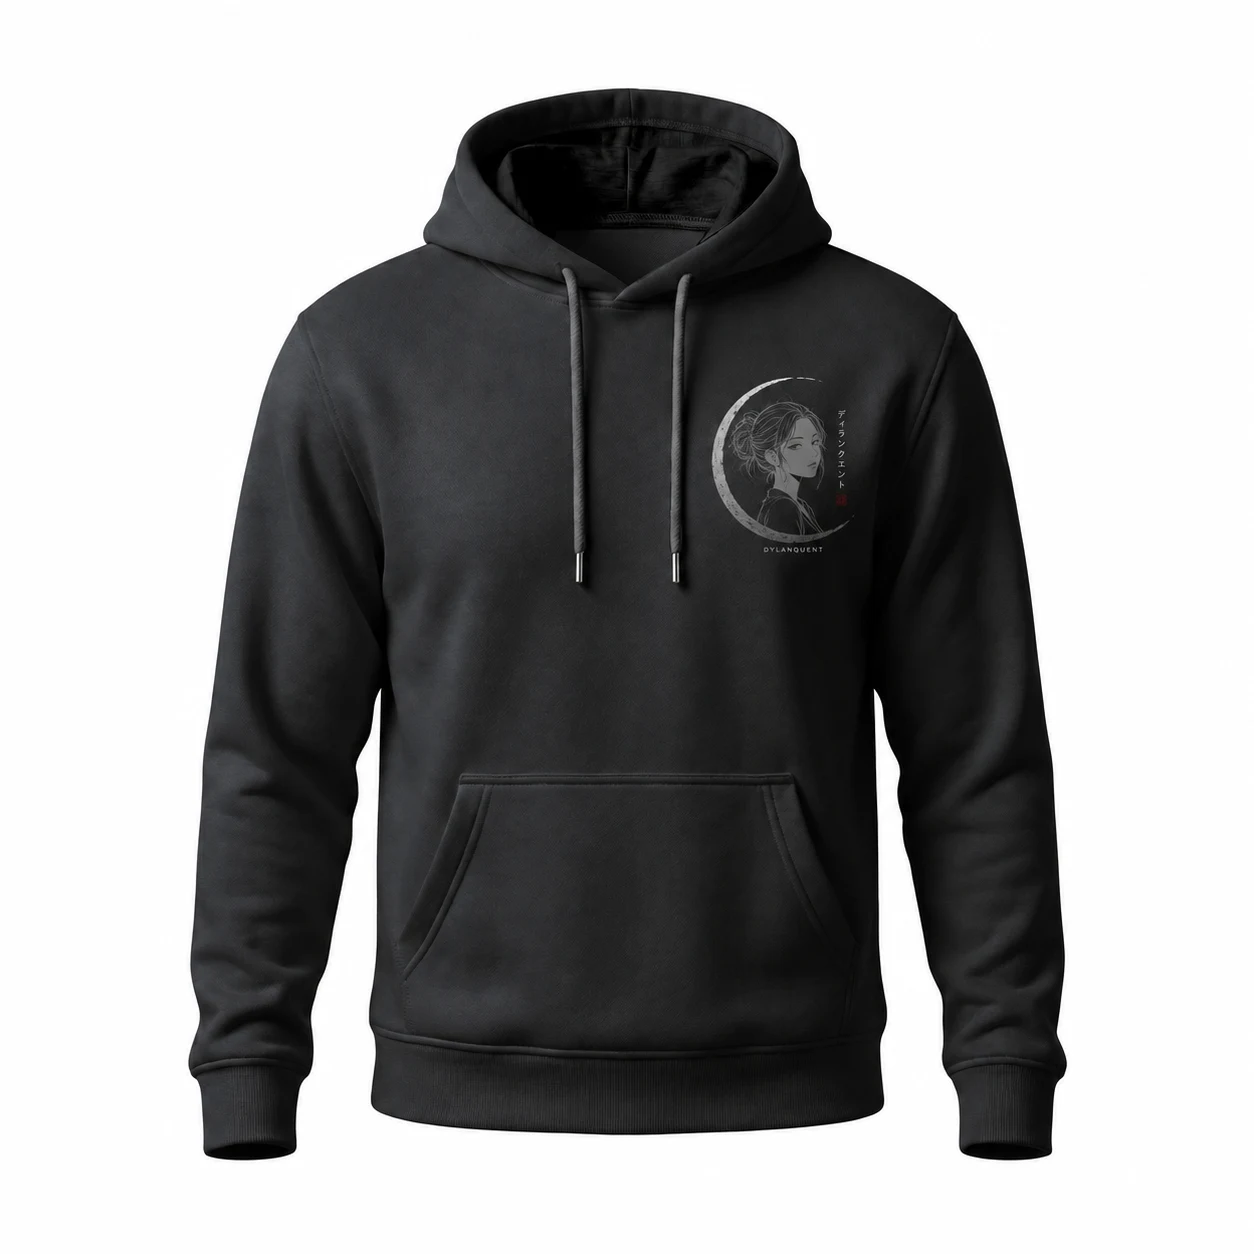
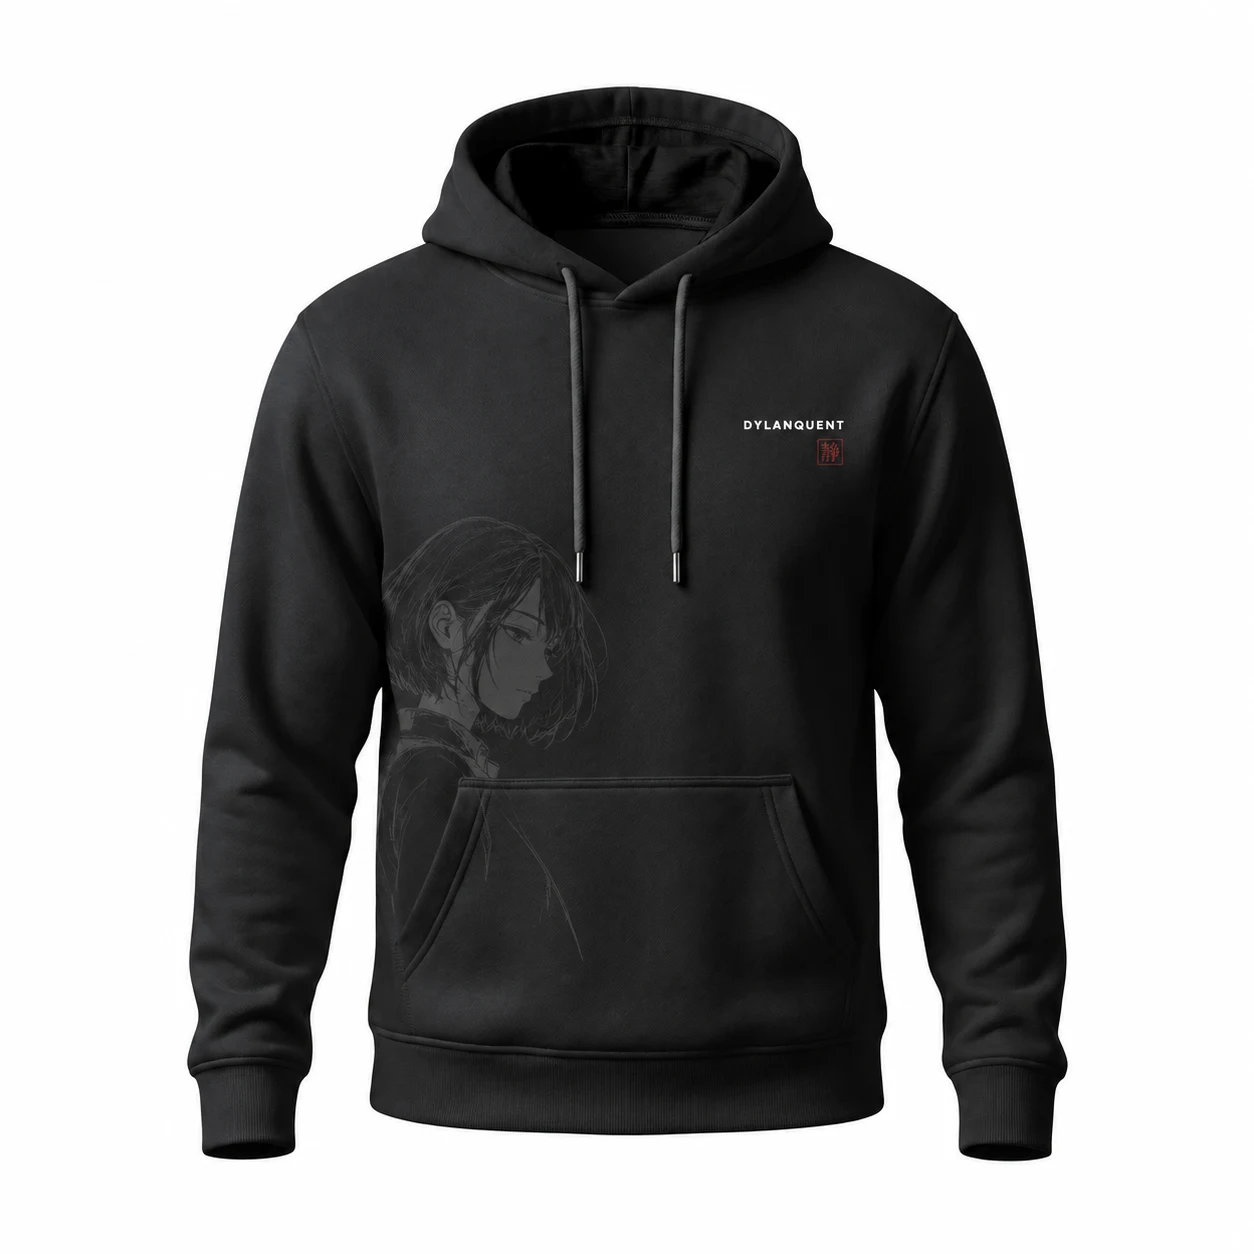
fix: swap the Shadow Waifu and Moon Waifu prints
Shadow Waifu is the crescent-framed chest portrait; Moon Waifu is the
oversized tonal print down the body. Names, blurbs, artwork files and
demo stock all move together, and the picker order goes back to the way
the drop was listed.

Variants keep the ids they were first written with, so a rename left the
print picker sorted by insert order rather than by the drop. Both axes
now sort on a position recorded on the variant, which also stops the
size picker depending on row order.

diff --git a/resources/js/pages/shop/show.tsx b/resources/js/pages/shop/show.tsx
@@ -34,6 +34,7 @@ interface Design {
     name: string;
     blurb: string | null;
     image: string | null;
+    order: number;
     inStock: boolean;
 }
 
@@ -62,19 +63,27 @@ function useDesignAxis(variants: Variant[]) {
                 name,
                 blurb: v.attributes?.design_blurb ?? null,
                 image: v.image_url,
+                order: Number(v.attributes?.design_order ?? designs.length),
                 inStock: v.is_available,
             });
         }
 
-        // Sizes are listed in the order the seeder emits them, not alphabetically,
-        // so S/M/L/XL stays in wearable order rather than becoming L/M/S/XL.
-        const sizes: string[] = [];
+        // Sizes run S/M/L/XL, not alphabetically — L/M/S/XL is unreadable on a
+        // size picker.
+        const sizes: { value: string; order: number }[] = [];
         for (const v of variants) {
-            const size = v.attributes?.size;
-            if (size && !sizes.includes(size)) sizes.push(size);
+            const value = v.attributes?.size;
+            if (!value || sizes.some((s) => s.value === value)) continue;
+            sizes.push({ value, order: Number(v.attributes?.size_order ?? sizes.length) });
         }
 
-        return { designs, sizes };
+        // Variants arrive in row order, which is insert order — renaming or
+        // reordering a print later must not shuffle the picker, so both axes
+        // sort on the position the drop recorded.
+        designs.sort((a, b) => a.order - b.order);
+        sizes.sort((a, b) => a.order - b.order);
+
+        return { designs, sizes: sizes.map((s) => s.value) };
     }, [variants]);
 }
 

diff --git a/database/seeders/FirstDropSeeder.php b/database/seeders/FirstDropSeeder.php
@@ -41,8 +41,8 @@ class FirstDropSeeder extends Seeder
         'QM' => ['S' => 8,  'M' => 14, 'L' => 12, 'XL' => 6],
         'VT' => ['S' => 5,  'M' => 10, 'L' => 9,  'XL' => 4],
         'ZG' => ['S' => 3,  'M' => 11, 'L' => 7,  'XL' => 5],
-        'MW' => ['S' => 2,  'M' => 9,  'L' => 8,  'XL' => 0],
-        'SW' => ['S' => 0,  'M' => 7,  'L' => 6,  'XL' => 3],
+        'SW' => ['S' => 2,  'M' => 9,  'L' => 8,  'XL' => 0],
+        'MW' => ['S' => 0,  'M' => 7,  'L' => 6,  'XL' => 3],
     ];
 
     private function designs(): array
@@ -67,16 +67,16 @@ class FirstDropSeeder extends Seeder
                 'image' => '/images/products/first-drop/hoodie-zen-geometry.webp',
             ],
             [
-                'code' => 'MW',
-                'name' => 'Moon Waifu',
-                'blurb' => 'Crescent-framed portrait with a red seal, right chest.',
-                'image' => '/images/products/first-drop/hoodie-moon-waifu.webp',
-            ],
-            [
                 'code' => 'SW',
                 'name' => 'Shadow Waifu',
-                'blurb' => 'Oversized tonal portrait printed black-on-black down the body.',
+                'blurb' => 'Crescent-framed portrait with a red seal, right chest.',
                 'image' => '/images/products/first-drop/hoodie-shadow-waifu.webp',
+            ],
+            [
+                'code' => 'MW',
+                'name' => 'Moon Waifu',
+                'blurb' => 'Oversized tonal portrait printed black-on-black down the body.',
+                'image' => '/images/products/first-drop/hoodie-moon-waifu.webp',
             ],
         ];
     }
@@ -181,8 +181,8 @@ class FirstDropSeeder extends Seeder
             ->whereNotIn('sku', $this->expectedSkus($product, $designs))
             ->delete();
 
-        foreach ($designs as $design) {
-            foreach (self::SIZES as $size) {
+        foreach ($designs as $designOrder => $design) {
+            foreach (self::SIZES as $sizeOrder => $size) {
                 $variant = ProductVariant::updateOrCreate(
                     ['sku' => "{$product->sku}-{$design['code']}-{$size}"],
                     [
@@ -194,6 +194,11 @@ class FirstDropSeeder extends Seeder
                             'design_code' => $design['code'],
                             'design_blurb' => $design['blurb'],
                             'size' => $size,
+                            // Rows keep the ids they were first written with, so
+                            // renaming or reordering a print would otherwise leave
+                            // the picker in insert order. Carry the intended order.
+                            'design_order' => $designOrder,
+                            'size_order' => $sizeOrder,
                         ],
                         'price_cents' => self::PRICE_CENTS,
                         'track_inventory' => true,

diff --git a/tests/Feature/FirstDropTest.php b/tests/Feature/FirstDropTest.php
@@ -19,14 +19,34 @@ it('builds a print x size matrix on the hoodie', function () {
 
     expect($product->variants)->toHaveCount(20);
 
-    $designs = $product->variants->pluck('attributes.design')->unique()->values();
+    $designs = $product->variants
+        ->sortBy('attributes.design_order')
+        ->pluck('attributes.design')
+        ->unique()
+        ->values();
 
     expect($designs->all())->toBe([
-        'Quiet Mark', 'Vertical Tokyo', 'Zen Geometry', 'Moon Waifu', 'Shadow Waifu',
+        'Quiet Mark', 'Vertical Tokyo', 'Zen Geometry', 'Shadow Waifu', 'Moon Waifu',
     ]);
 
-    expect($product->variants->pluck('attributes.size')->unique()->values()->all())
-        ->toBe(['S', 'M', 'L', 'XL']);
+    expect(
+        $product->variants->sortBy('attributes.size_order')->pluck('attributes.size')->unique()->values()->all()
+    )->toBe(['S', 'M', 'L', 'XL']);
+});
+
+it('pins the picker order to the drop, not to row order', function () {
+    // Renaming a print reuses its row, so insert order stops matching the drop.
+    // The recorded order is what the picker sorts on.
+    $product = Product::where('slug', 'heavy-hoodie')->first();
+
+    $shadow = $product->variants->firstWhere('attributes.design', 'Shadow Waifu');
+    $moon = $product->variants->firstWhere('attributes.design', 'Moon Waifu');
+
+    expect($shadow->attributes['design_order'])->toBe(3)
+        ->and($moon->attributes['design_order'])->toBe(4);
+
+    expect($product->variants->pluck('attributes.size_order')->unique()->sort()->values()->all())
+        ->toBe([0, 1, 2, 3]);
 });
 
 it('gives every variant its own print image', function () {
@@ -88,7 +108,7 @@ it('carries the chosen print onto the cart line', function () {
 });
 
 it('refuses a sold-out print and size', function () {
-    $variant = ProductVariant::where('sku', 'DQ-HD-01-SW-S')->firstOrFail();
+    $variant = ProductVariant::where('sku', 'DQ-HD-01-MW-S')->firstOrFail();
 
     expect($variant->inventoryLevels->sum('quantity'))->toBe(0);
 
